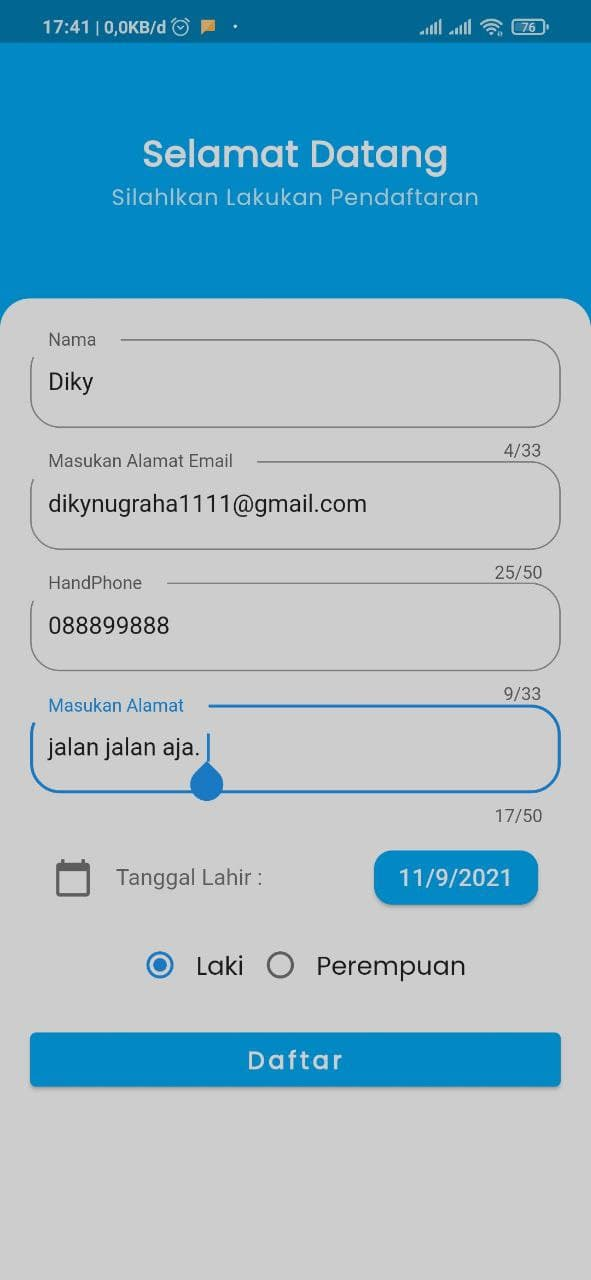
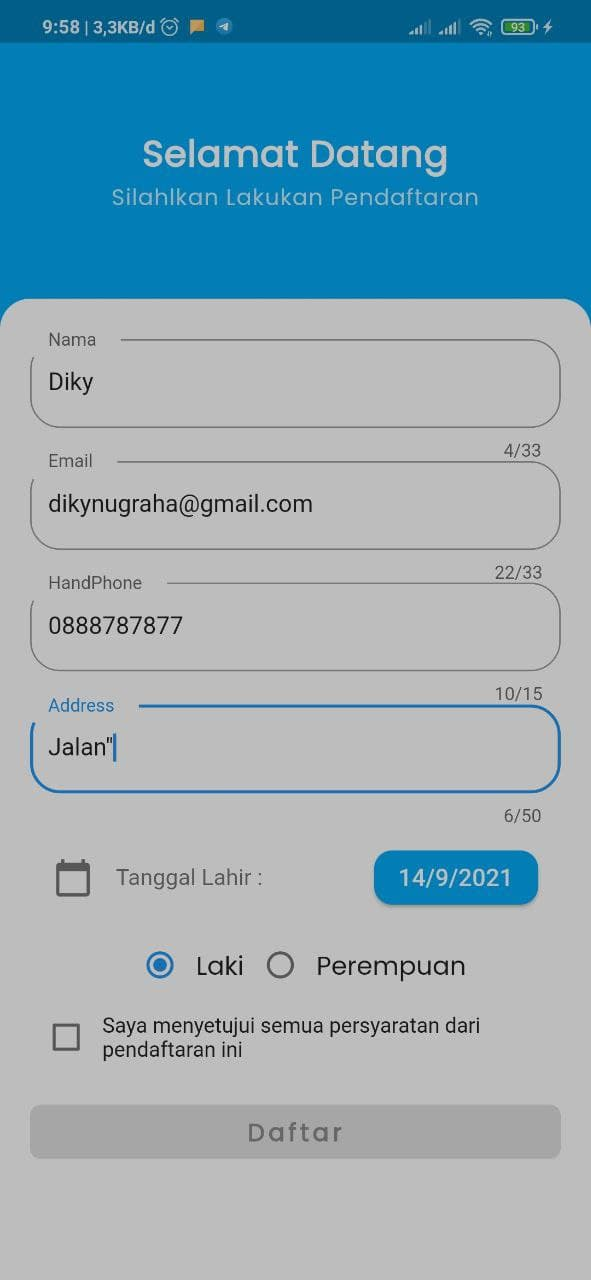
Update Readme

diff --git a/README.md b/README.md
@@ -1,22 +1,6 @@
 # antarmahasiswa
 
-Submission of Task 2 Gits Studi Independen.
-
-Implemented Widget =>
-
-- Container,
-- ListView,
-- Row,
-- Column,
-- Text,
-- AppBar,
-- BoxDecoration,
-- Color,
-- Icon,
-- SizedBox,
-- Card,
-- Image.Network,
-- Etc.
+Submission of Tasks Gits Studi Independen.
 
 ## ScreenShot Task 1
 
@@ -40,13 +24,17 @@ Input Date
 
 <img src="https://raw.githubusercontent.com/dikynugraha1111/AntarMahasiswa/master/img/InputReg2.jpg" width="300" />
 
-Pop-Up Notification
+Check of Terms
 
 <img src="https://raw.githubusercontent.com/dikynugraha1111/AntarMahasiswa/master/img/InputReg3.jpg" width="300" />
 
-Form Validation
+Pop-Up Notification
 
 <img src="https://raw.githubusercontent.com/dikynugraha1111/AntarMahasiswa/master/img/InputReg4.jpg" width="300" />
+
+Form Validation
+
+<img src="https://raw.githubusercontent.com/dikynugraha1111/AntarMahasiswa/master/img/InputReg5.jpg" width="300" />
 
 A new Flutter project.
 
